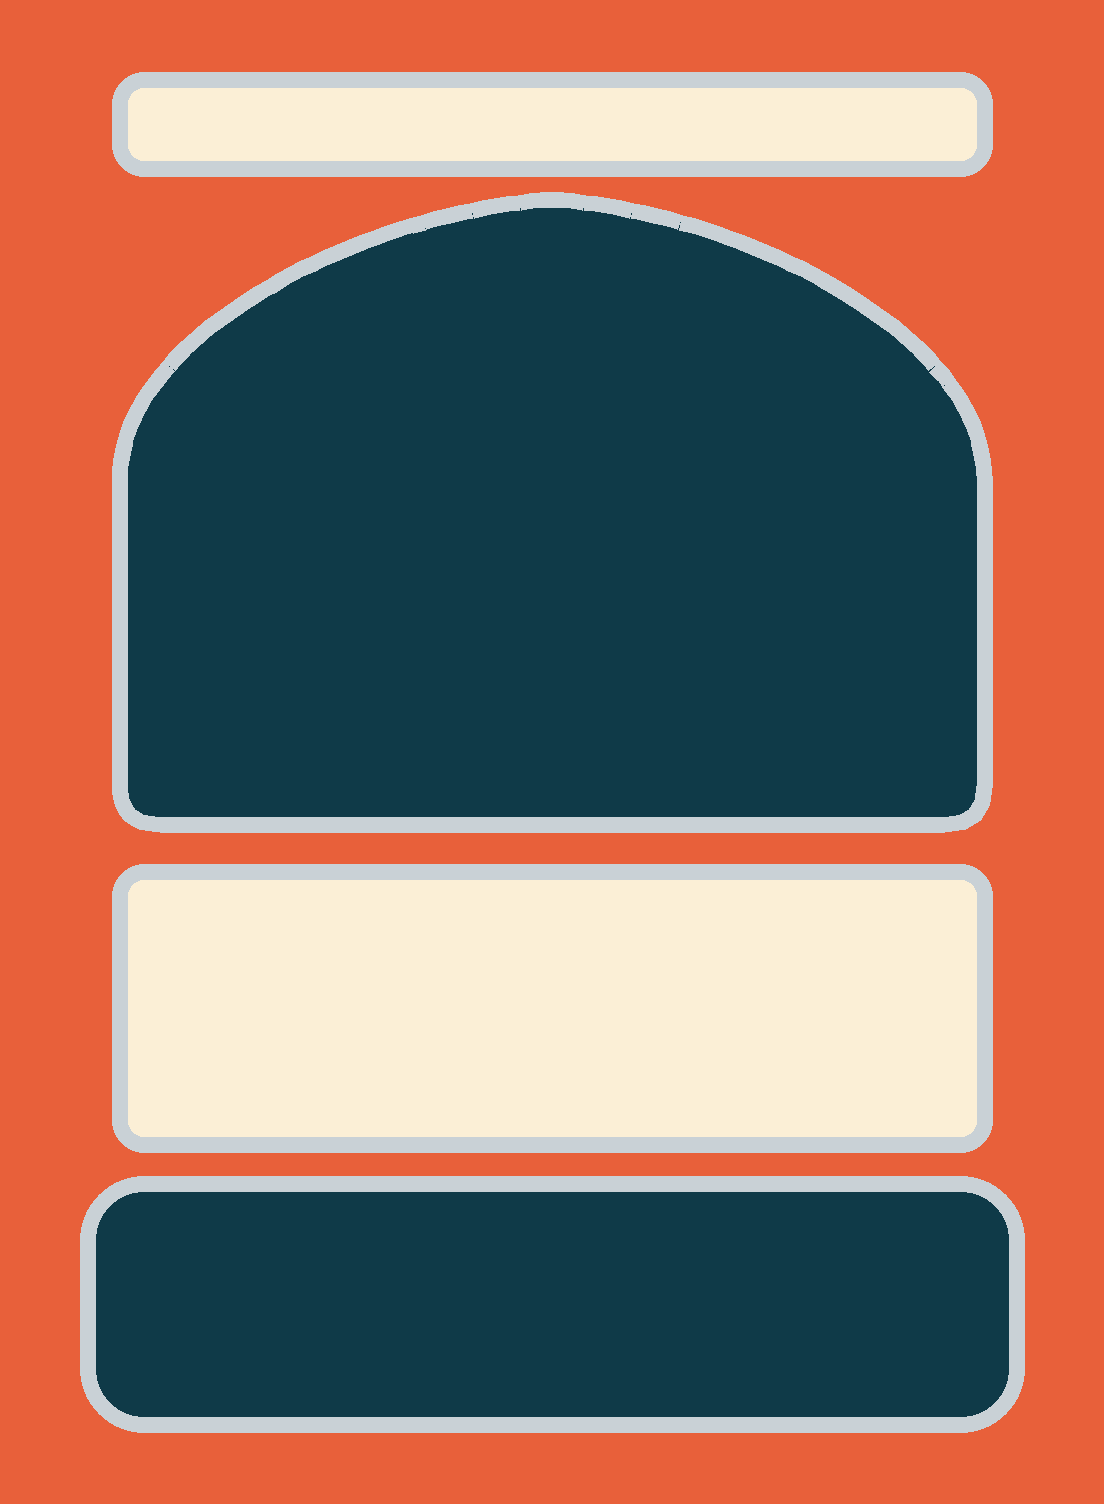
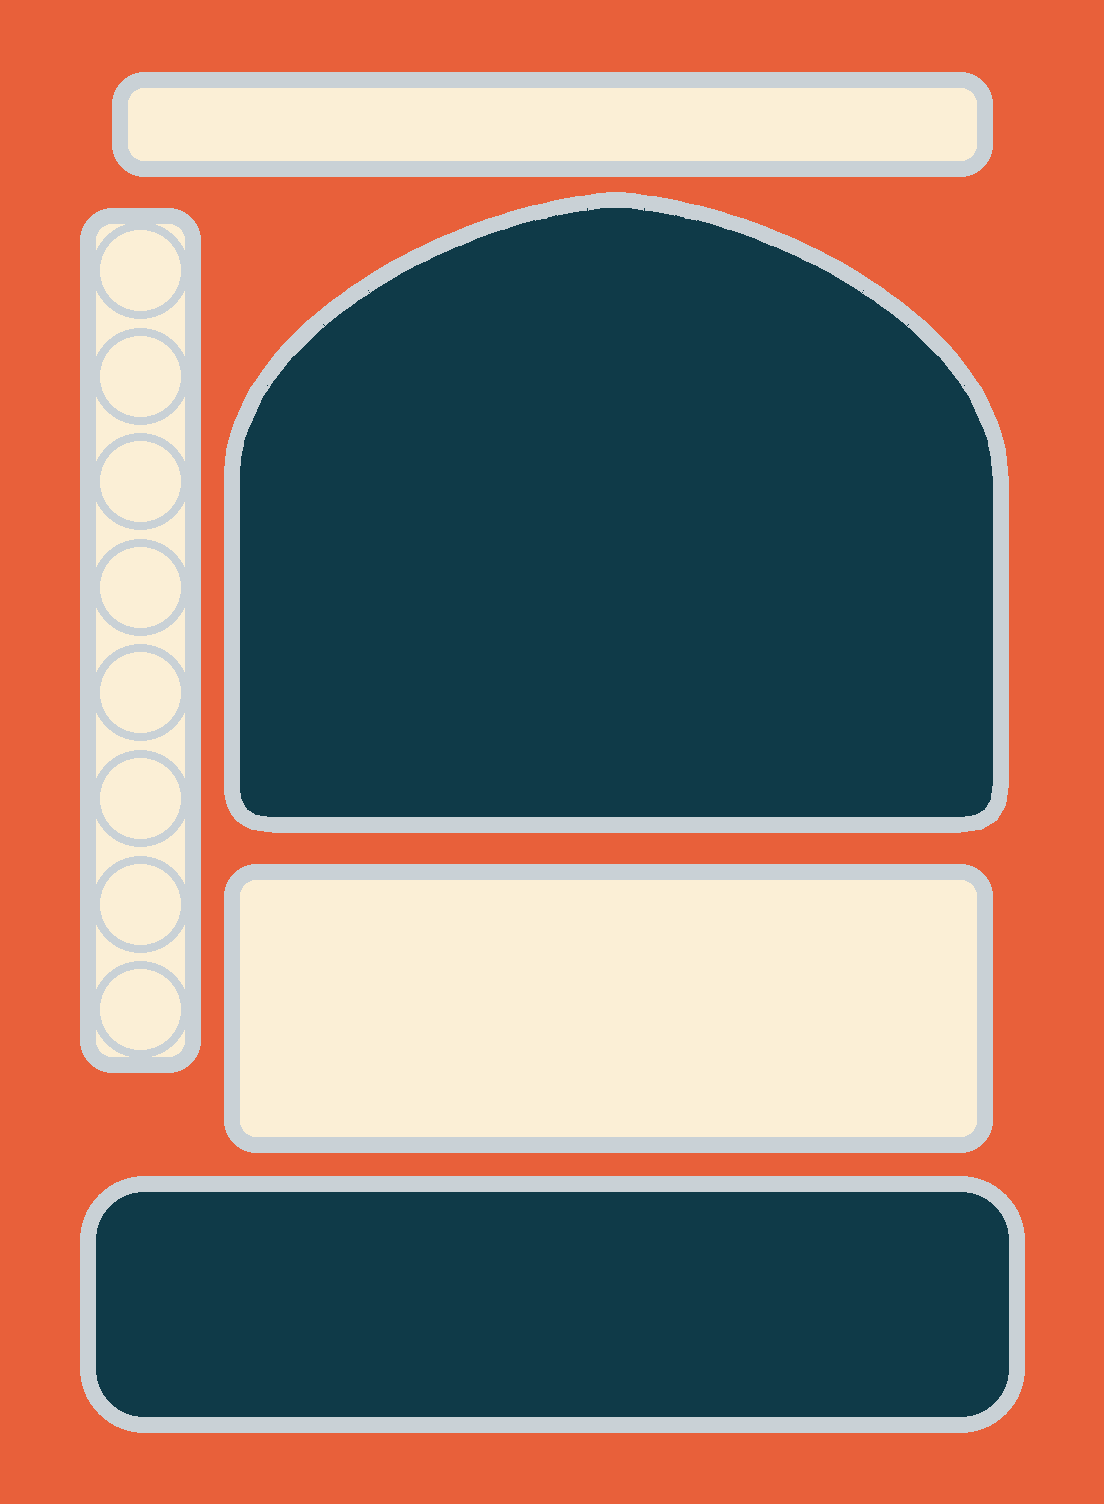
Guild column (designer): all eight guilds down the left edge, absent ones greyed; master window narrowed to 49 mm at x 11 so a slotted card hides the column; guides updated; batch 8 (card frame + Wall v4) submitted
Claude-Session: https://claude.ai/code/session_014To8X9aHo3rSPP2S9tniN3

Changed region(s): [[0.0616, 0.125, 0.9239, 0.7812]]

diff --git a/generation-ship/tools/retro_templates.py b/generation-ship/tools/retro_templates.py
@@ -26,16 +26,29 @@ ROOT = Path(__file__).resolve().parent.parent
 OUT = ROOT / "art" / "templates" / "retro"
 
 # --- master shapes (mm) -------------------------------------------------------------------------
-WIN_W, WIN_H = 55.0, 40.0          # the master window
+WIN_W, WIN_H = 49.0, 40.0          # the master window (49 wide since 2026-11-05: the guild column needs the left edge)
 WIN_SIDE = 18.0                    # where the straight sides end and the arch starts (from the top)
 WIN_FOOT_R = 3.0                   # bottom corner radius
 PLAQUE_W, PLAQUE_H, PLAQUE_R = 59.0, 16.0, 4.0
 
 CARD_W, CARD_H, BLEED = 63.0, 88.0, 3.0
-CARD_WIN = (4.0, 9.0)              # top-left of the window on the card
+CARD_WIN = (11.0, 9.0)             # top-left of the window on the card
 CARD_PLAQUE = (2.0, 70.5)          # top-left of the Legacy plaque on the card
 CARD_NAME = (4.0, 1.5, 55.0, 6.5)  # name bar x, y, w, h
-CARD_TEXT = (4.0, 51.0, 55.0, 18.0)  # guilds + effect text panel x, y, w, h
+CARD_TEXT = (11.0, 51.0, 48.0, 18.0)  # effect + Reign text panel x, y, w, h
+# The guild column (designer, 2026-11-05, after Spirit Island's element column): all eight guilds
+# down the left edge, those the card does not have greyed out, so a fanned hand shows every card's
+# guilds at a glance. It lies outside both Wall windows, so a slotted card hides it.
+GUILD_ORDER = ["Engineers", "Navigators", "Bureaucrats", "Farmers", "Medics", "Laborers", "Keepers", "Scholars"]
+CARD_GUILDS = (2.0, 10.0, 7.5, 54.0)     # column x, y, w, h
+GUILD_D, GUILD_PITCH = 6.0, 6.6           # icon diameter and pitch (mm)
+
+
+def guild_centres():
+    """Centres (mm, card coordinates) of the eight guild sockets, top to bottom."""
+    x, y, w, h = CARD_GUILDS
+    top = y + (h - GUILD_PITCH * (len(GUILD_ORDER) - 1)) / 2
+    return [(x + w / 2, top + i * GUILD_PITCH) for i in range(len(GUILD_ORDER))]
 
 WALL_W, WALL_H = 290.0, 120.0      # one panel of the tri-fold Wall
 WALL_SLOTS = 4
@@ -124,8 +137,11 @@ def card_guide():
     s, b = CARD_PX, BLEED
     im = Image.new("RGB", (round((CARD_W + 2 * b) * s), round((CARD_H + 2 * b) * s)), TANGERINE)
     d = ImageDraw.Draw(im)
-    for x, y, w, h in (CARD_NAME, CARD_TEXT):
+    for x, y, w, h in (CARD_NAME, CARD_TEXT, CARD_GUILDS):
         d.rounded_rectangle(((x + b) * s, (y + b) * s, (x + b + w) * s, (y + b + h) * s), 2 * s, fill=CREAM, outline=CHROME, width=s)
+    for cx, cy in guild_centres():
+        r = GUILD_D / 2
+        d.ellipse(((cx - r + b) * s, (cy - r + b) * s, (cx + r + b) * s, (cy + r + b) * s), fill=CREAM, outline=CHROME, width=max(2, s // 2))
     draw_windows(d, s, [(b, b)], TEAL, CHROME, s)
     return im
 

diff --git a/generation-ship/tools/table_mockup.py b/generation-ship/tools/table_mockup.py
@@ -27,6 +27,7 @@ ROOT = Path(__file__).resolve().parent.parent
 SRC = ROOT / "art" / "source" / "retro"
 OUT = ROOT / "art" / "mockups"
 PX = 6                                # px per mm on the table
+CARD_FRAME = "card_frame_v4b_exact.png"   # people cards: the frame with the guild column (Retro batch 8)
 TABLE = (900, 640)                    # mm
 FONT_B = str(ROOT / "art" / "fonts" / "Righteous-Regular.ttf")          # style guide: titles
 FONT = str(ROOT / "art" / "fonts" / "JosefinSans[wght].ttf")            # style guide: body text
@@ -130,7 +131,7 @@ def wrap(d, text, f, width):
 def people_card(person, portrait, name):
     """A finished people card at 16 px/mm (no bleed), from card_frame_v3b_exact."""
     s, b = rt.CARD_PX, rt.BLEED
-    im = Image.open(SRC / "card_frame_v3b_exact.png").convert("RGB")
+    im = Image.open(SRC / CARD_FRAME).convert("RGB")
     portrait_into(im, portrait, s, (b, b))
     im = im.crop((b * s, b * s, (b + rt.CARD_W) * s, (b + rt.CARD_H) * s))
     d = ImageDraw.Draw(im)
@@ -141,8 +142,8 @@ def people_card(person, portrait, name):
     tx, ty, tw, th = rt.CARD_TEXT
     f = jfont(round(1.9 * s))
     y = ty * s
-    gx = it.draw(im, (tx + 2) * s, y + 3.4 * s, [("icon", f"guild_{g}") for g in person["guilds"]], round(3.6 * s))   # guilds
-    it.draw(im, gx + 1.5 * s, y + 3.4 * s, icons.effect_items(person["effects"]), round(4.4 * s), max_w=(tx + tw - 2) * s - gx)   # effect
+    it.guild_column(im, s, (0, 0), person["guilds"], (rt.guild_centres(), rt.GUILD_D))                     # all eight guilds
+    it.draw(im, (tx + 2) * s, y + 3.4 * s, icons.effect_items(person["effects"]), round(4.4 * s), max_w=(tw - 4) * s)   # effect
     y += 6.6 * s
     for line in wrap(d, "Reign: " + person["reign"]["text"], f, (tw - 4) * s)[:3]:     # the panel ends above the accent
         d.text(((tx + 2) * s, y), line, fill=teal, font=f)

diff --git a/generation-ship/tools/make_retro_batch.py b/generation-ship/tools/make_retro_batch.py
@@ -76,6 +76,8 @@ HOUSE_LOOK = {   # colour, background motif (the emblem is EMBLEMS)
 EDITS_6 = {f"house_{h}_v3": ("house_board_v3", f"house_{h}_guide.png", "1536x1024", 1) for h in HOUSE_LOOK}
 EDITS_7 = {f"house_{h}_v3": ("house_board_v3", f"house_{h}_guide.png", "1536x1024", 1) for h in HOUSE_LOOK_2}
 HOUSE_LOOK.update(HOUSE_LOOK_2)
+EDITS_8 = {**{f"card_frame_v4{v}": ("card_frame_v4", "card_guide.png", "1104x1504", 1) for v in "ab"},
+           **{f"wall_panel_v4{v}": ("wall_panel_v3", "wall_guide.png", "2320x960", 1) for v in "ab"}}
 GENERATIONS = {
     "card_back": ("card_back", None, "1104x1504", 1),
     **{f"icon_{t}": (f"icon_{t}", None, "1024x1024", 1) for t in ("infrastructure", "residential", "government", "agricultural")},
@@ -126,10 +128,12 @@ def build(jobs, endpoint, style, ps):
 def main():
     import argparse
     ap = argparse.ArgumentParser()
-    ap.add_argument("--batch", type=int, default=2, choices=(2, 3, 4, 5, 6, 7))
+    ap.add_argument("--batch", type=int, default=2, choices=(2, 3, 4, 5, 6, 7, 8))
     batch = ap.parse_args().batch
     ps = prompts(6 if batch == 7 else batch)      # batch 7 reuses batch 6's house-board prompt
-    edits, gens = {2: (EDITS, GENERATIONS), 3: (EDITS_3, GENERATIONS_3), 4: ({}, GENERATIONS_4), 5: (EDITS_5, {}), 6: (EDITS_6, {}), 7: (EDITS_7, {})}[batch]
+    if batch == 8:
+        ps = {**prompts(3), **ps}                  # batch 8's Wall reuses batch 3's wall_panel_v3
+    edits, gens = {2: (EDITS, GENERATIONS), 3: (EDITS_3, GENERATIONS_3), 4: ({}, GENERATIONS_4), 5: (EDITS_5, {}), 6: (EDITS_6, {}), 7: (EDITS_7, {}), 8: (EDITS_8, {})}[batch]
     text = (ROOT / "art" / "CHATGPT_PROMPTS.md").read_text()
     sec = text.split("## D · Retro Space", 1)[1]
     opener = re.search(r"\*\*Opener\*\*\n```\n(.*?)\n```", sec, re.S).group(1)

diff --git a/generation-ship/tools/icon_type.py b/generation-ship/tools/icon_type.py
@@ -15,8 +15,27 @@ INK = "#0F3A48"
 
 
 @lru_cache(maxsize=None)
-def glyph(name, size):
-    return Image.open(PNG / f"{name}.png").convert("RGBA").resize((size, size), Image.LANCZOS)
+def glyph(name, size, dim=False):
+    """A glyph; dim=True greys it out (an absent guild in the card's guild column)."""
+    g = Image.open(PNG / f"{name}.png").convert("RGBA").resize((size, size), Image.LANCZOS)
+    if dim:
+        grey = g.convert("LA").convert("RGBA")
+        grey = Image.blend(grey, Image.new("RGBA", g.size, (251, 239, 214, 0)), 0.45)
+        grey.putalpha(g.getchannel("A").point(lambda v: int(v * 0.55)))
+        g = grey
+    return g
+
+
+def guild_column(im, s, origin, guilds, frame_mm):
+    """The Spirit Island-style guild column: all eight guilds top to bottom, the card's own in colour,
+    the others greyed out. s = px per mm; origin = the card's top-left in mm on im; frame_mm = (centres
+    list, icon diameter) from tools/retro_templates.py."""
+    centres, d = frame_mm
+    order = ["Engineers", "Navigators", "Bureaucrats", "Farmers", "Medics", "Laborers", "Keepers", "Scholars"]
+    size = round(d * s)
+    for (cx, cy), g in zip(centres, order):
+        gl = glyph(f"guild_{g}", size, dim=g not in guilds)
+        im.paste(gl, (round((origin[0] + cx) * s - size / 2), round((origin[1] + cy) * s - size / 2)), gl)
 
 
 def title_font(px):

diff --git a/generation-ship/art/CHATGPT_PROMPTS.md b/generation-ship/art/CHATGPT_PROMPTS.md
@@ -405,3 +405,14 @@ Wide landscape image, exactly the layout of the attached guide, filling the fram
 ## Retro batch 7  (folder `art/source/retro/`)
 
 House boards for the other four houses (Meridian, Vigil, Foremen, Tellers), with the batch-6 prompt (`house_board_v3.png` above); colours, emblems and background motifs are in `tools/make_retro_batch.py` (`EMBLEMS`, `HOUSE_LOOK_2`). Built by `tools/make_retro_batch.py --batch 7`.
+
+---
+
+## Retro batch 8  (folder `art/source/retro/`)
+
+The guild column (designer, 2026-11-05): all eight guilds down the left edge of every people card, the ones the card lacks greyed out, as in Spirit Island's element column, so a fanned hand shows every card's guilds. The master window narrows to 49 × 40 mm and moves right (x 11–60 mm) so the column stays hidden when a card is slotted in the Wall. New card frame and Wall panel over the new guides; the Wall uses the batch-3 `wall_panel_v3` prompt. Built by `tools/make_retro_batch.py --batch 8`.
+
+`card_frame_v4.png` (edit of `card_guide.png`)
+```
+Tall portrait image, exactly the layout of the attached guide. Repaint the guide as a finished, empty trading-card frame for this game, flat and straight-on like a printed card template, quiet enough that hundreds of these on a table look calm. Keep every shape exactly where it is and exactly as large as it is: the thin name bar at the top; the narrow column down the left edge with its eight round sockets stacked top to bottom; the arched portrait window beside it (straight sides, a gently rounded arch on top, a flat foot); the text panel below the window; and the large rounded Legacy plaque across the bottom. The arch window and the Legacy plaque stay perfectly flat, empty deep teal (#0F3A48); the name bar, text panel, column and its eight sockets stay plain, empty cream. Paint only the frame around them: a cream card border with a very fine halftone texture, a slim brushed-chrome bezel tracing the arch window, the column and the Legacy plaque, a thin deep-teal keyline inside the card edge, and one small tangerine atomic starburst as the only accent, centred just above the Legacy plaque. No text, letters, numbers, logos or watermarks.
+```
